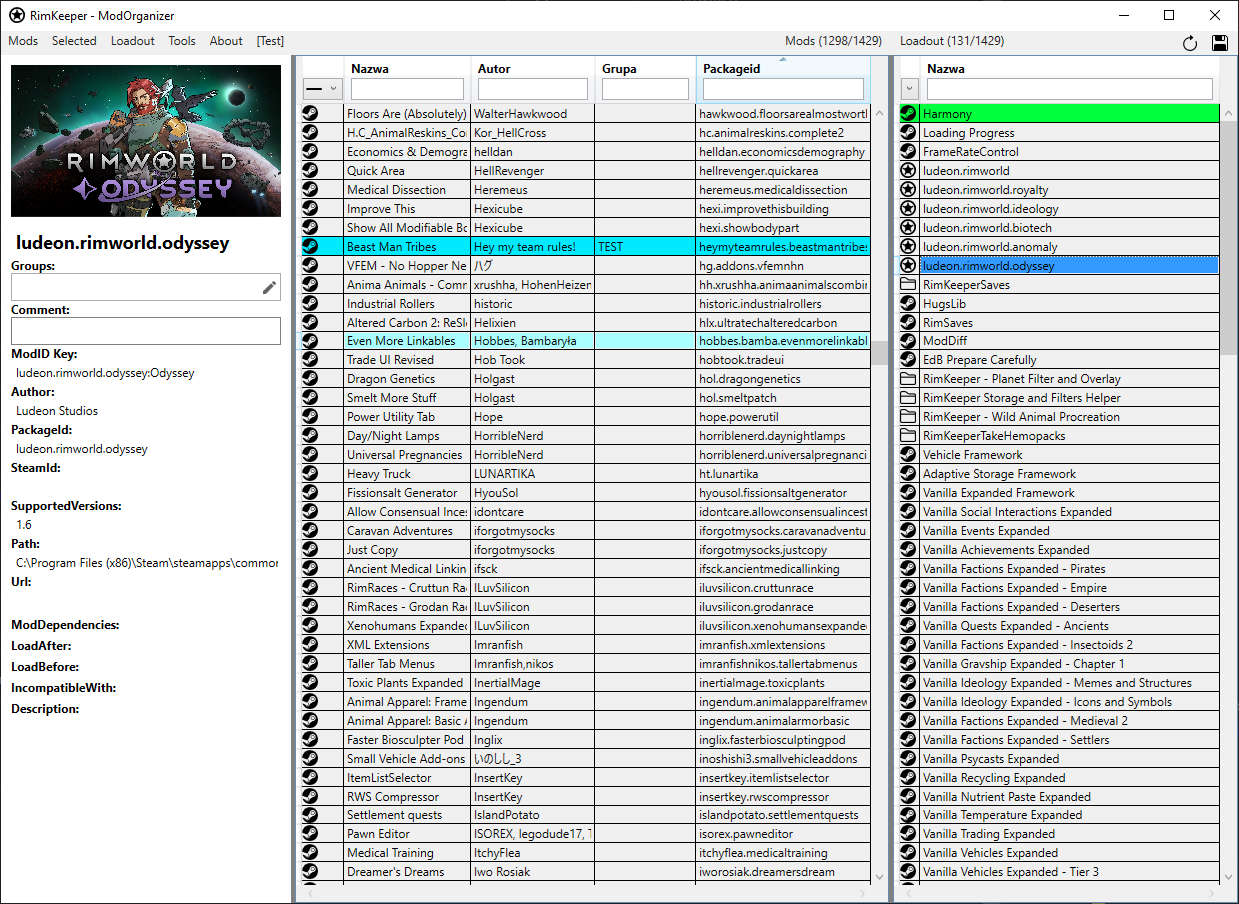
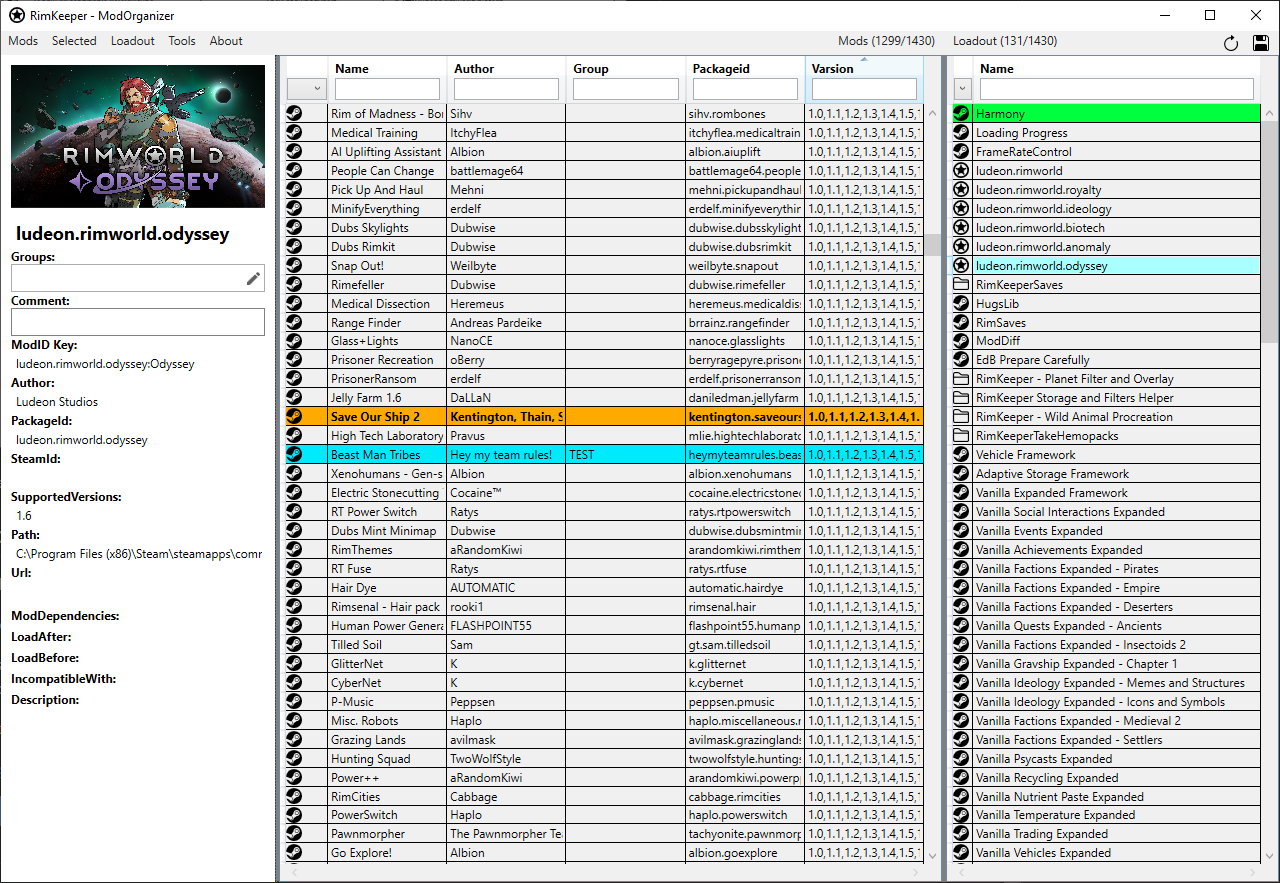
quick fix naming

diff --git a/RimKeeperModOrganizerWPF/Views/SettingsWindow.xaml b/RimKeeperModOrganizerWPF/Views/SettingsWindow.xaml
@@ -77,7 +77,7 @@
                 <Border Margin="5" BorderBrush="Gray" BorderThickness="2">
                     <ScrollViewer>
                         <StackPanel Margin="5" VerticalAlignment="Top">
-                            <GroupBox Header="Nazwa">
+                            <GroupBox Header="Name">
                                 <DockPanel>
                                     <Label Content="Visable:" />
                                     <CheckBox IsChecked="{Binding ModColumnData[label].Visible, Mode=TwoWay, UpdateSourceTrigger=PropertyChanged}" VerticalContentAlignment="Center" HorizontalContentAlignment="Center"  />
@@ -85,7 +85,7 @@
                                     <TextBox Width="100" Text="{Binding ModColumnData[label].Width, Mode=TwoWay, UpdateSourceTrigger=PropertyChanged}" VerticalContentAlignment="Center" HorizontalAlignment="Left" />
                                 </DockPanel>
                             </GroupBox>
-                            <GroupBox Header="Grupa">
+                            <GroupBox Header="Group">
                                 <DockPanel>
                                     <Label Content="Visable:" />
                                     <CheckBox IsChecked="{Binding ModColumnData[group].Visible, Mode=TwoWay, UpdateSourceTrigger=PropertyChanged}" VerticalContentAlignment="Center" HorizontalContentAlignment="Center"  />
@@ -93,7 +93,7 @@
                                     <TextBox Width="100" Text="{Binding ModColumnData[group].Width, Mode=TwoWay, UpdateSourceTrigger=PropertyChanged}" VerticalContentAlignment="Center" HorizontalAlignment="Left" />
                                 </DockPanel>
                             </GroupBox>
-                            <GroupBox Header="Autor">
+                            <GroupBox Header="Author">
                                 <DockPanel>
                                     <Label Content="Visable:" />
                                     <CheckBox IsChecked="{Binding ModColumnData[author].Visible, Mode=TwoWay, UpdateSourceTrigger=PropertyChanged}" VerticalContentAlignment="Center" HorizontalContentAlignment="Center"  />
@@ -117,7 +117,7 @@
                                     <TextBox Width="100" Text="{Binding ModColumnData[versions].Width, Mode=TwoWay, UpdateSourceTrigger=PropertyChanged}" VerticalContentAlignment="Center" HorizontalAlignment="Left" />
                                 </DockPanel>
                             </GroupBox>
-                            <GroupBox Header="Typ">
+                            <GroupBox Header="TypeIcon">
                                 <DockPanel>
                                     <Label Content="Visable:" />
                                     <CheckBox IsChecked="{Binding ModColumnData[type].Visible, Mode=TwoWay, UpdateSourceTrigger=PropertyChanged}" VerticalContentAlignment="Center" HorizontalContentAlignment="Center"  />

diff --git a/RimKeeperModOrganizerWPF/Views/MainWindow.xaml b/RimKeeperModOrganizerWPF/Views/MainWindow.xaml
@@ -476,7 +476,7 @@
                     Binding="{Binding Location}"
                 />
 
-                <kdg:FilterableTextColumn Width="*" Header="Nazwa" Binding="{Binding Label}" />
+                <kdg:FilterableTextColumn Width="*" Header="Name" Binding="{Binding Label}" />
                 <!--<DataGridTextColumn Header="Position" Binding="{Binding Position}" Width="40"/>-->
 
             </kdg:AdvancedFilterDataGrid.Columns>

diff --git a/RimKeeperModOrganizerLib/Models/SettingsModel.cs b/RimKeeperModOrganizerLib/Models/SettingsModel.cs
@@ -19,9 +19,9 @@ public class SettingsModel : PropertyModel
     public List<ColumnSettings> ModColumnData { get; set; } = new List<ColumnSettings>()
     {
         { new ColumnSettings("","type")  },
-        { new ColumnSettings("Grupa","group") },
-        { new ColumnSettings("Nazwa","label")  },
-        { new ColumnSettings("Autor","author") },
+        { new ColumnSettings("Group","group") },
+        { new ColumnSettings("Name","label")  },
+        { new ColumnSettings("Author","author") },
         { new ColumnSettings("Packageid","packageid") },
         { new ColumnSettings("Varsion","versions") }
     };
